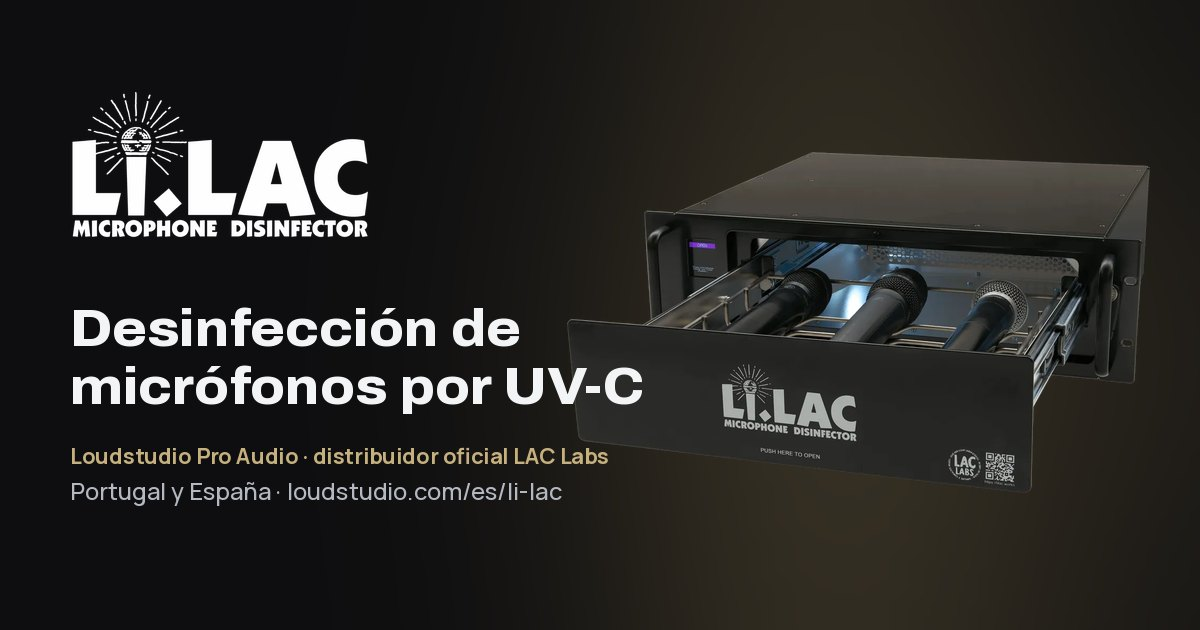
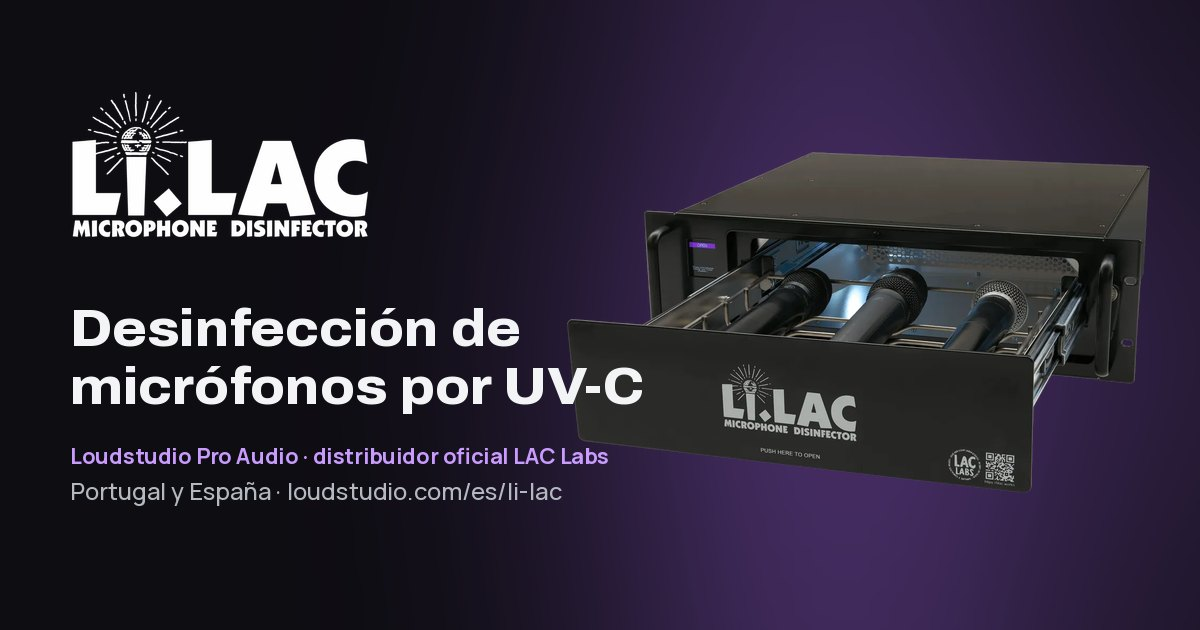
Website: Li.LAC pages keep the lilac tone
The Pro Audio pages use the lilac of the Li.LAC product again for
buttons, highlights and the product glow; the header and footer keep the
original gold Pro Audio logo. Sharing images for Li.LAC back in lilac.

Claude-Session: https://claude.ai/code/session_01BG5GuYZB1s45KCDu9raZV8

diff --git a/website/public/assets/css/style.css b/website/public/assets/css/style.css
@@ -1093,16 +1093,18 @@ a.contact-list__value:hover { color: var(--accent); }
 .lead + .btn-row, .lead + .download { margin-top: 32px; }
 .stack-lg { margin-top: clamp(56px, 8vw, 104px); }
 
-/* ---------- Pro Audio (Li.LAC, the commercial side): the gold of the original Pro Audio logo ---------- */
+/* ---------- Pro Audio (Li.LAC, the commercial side) ----------
+   The logos stay the original gold Pro Audio artwork; the page itself uses
+   the lilac of the Li.LAC product (its display and brochure). */
 
 .theme-proaudio {
-  --accent: #a8925e;             /* logo gold, a little lighter so small text stays readable */
-  --accent-rgb: 168, 146, 94;
-  --accent-hover: #c5b07e;
-  --accent-ink: #15120b;
-  --light-accent: #6f5d33;
+  --accent: #b06bff;
+  --accent-rgb: 176, 107, 255;
+  --accent-hover: #c99bff;
+  --accent-ink: #12061f;
+  --light-accent: #7330c9;
 }
-.theme-proaudio .section--light .feature__icon { background: rgba(111, 93, 51, 0.12); }
+.theme-proaudio .section--light .feature__icon { background: rgba(115, 48, 201, 0.1); }
 
 .media--product { aspect-ratio: auto; background: transparent; overflow: visible; }
 .media--product img { height: auto; object-fit: contain; }
@@ -1113,7 +1115,7 @@ a.contact-list__value:hover { color: var(--accent); }
   padding: clamp(24px, 5vw, 72px);
   background:
     radial-gradient(55% 60% at 50% 55%, rgba(var(--accent-rgb), 0.32) 0%, rgba(var(--accent-rgb), 0.08) 50%, transparent 72%),
-    linear-gradient(180deg, #16171a 0%, #0e0f11 100%);
+    linear-gradient(180deg, #15121c 0%, #0e0d12 100%);
   border: 1px solid var(--line);
   overflow: hidden;
 }

diff --git a/website/public/index.html b/website/public/index.html
@@ -24,9 +24,9 @@
 <link rel="manifest" href="/site.webmanifest">
 <link rel="preload" href="/assets/fonts/archivo-latin-var.woff2" as="font" type="font/woff2" crossorigin>
 <link rel="preload" href="/assets/fonts/manrope-latin-var.woff2" as="font" type="font/woff2" crossorigin>
-<link rel="stylesheet" href="/assets/css/style.css?v=fe771f3e17">
+<link rel="stylesheet" href="/assets/css/style.css?v=42d0f384d3">
 <script>document.documentElement.classList.add("js")</script>
-<script src="/assets/js/main.js?v=fe771f3e17" defer></script>
+<script src="/assets/js/main.js?v=42d0f384d3" defer></script>
 <script type="application/ld+json">{"@context":"https://schema.org","@type":"LocalBusiness","@id":"https://loudstudio.com/#loudstudio","name":"Loudstudio","description":"Estúdio de produção áudio em Coimbra: gravação, mistura, masterização e produção.","url":"https://loudstudio.com/","email":"info@loudstudio.com","telephone":"+351965243633","image":"https://loudstudio.com/assets/img/og/loudstudio-og.jpg","founder":{"@type":"Person","name":"Toni Lourenço"},"address":{"@type":"PostalAddress","streetAddress":"Galerias Topázio, Sala 408","addressLocality":"Coimbra","addressCountry":"PT"},"areaServed":"PT","sameAs":["https://www.facebook.com/loudstudiocoimbra/"]}</script>
 </head>
 <body class="">

diff --git a/website/public/es/li-lac/index.html b/website/public/es/li-lac/index.html
@@ -27,9 +27,9 @@
 <link rel="manifest" href="/site.webmanifest">
 <link rel="preload" href="/assets/fonts/archivo-latin-var.woff2" as="font" type="font/woff2" crossorigin>
 <link rel="preload" href="/assets/fonts/manrope-latin-var.woff2" as="font" type="font/woff2" crossorigin>
-<link rel="stylesheet" href="/assets/css/style.css?v=fe771f3e17">
+<link rel="stylesheet" href="/assets/css/style.css?v=42d0f384d3">
 <script>document.documentElement.classList.add("js")</script>
-<script src="/assets/js/main.js?v=fe771f3e17" defer></script>
+<script src="/assets/js/main.js?v=42d0f384d3" defer></script>
 <script type="application/ld+json">{"@context":"https://schema.org","@type":"Product","name":"Li.LAC","description":"Cajón de rack de 19” y 3U para desinfectar micrófonos con luz ultravioleta (UV-C).","brand":{"@type":"Brand","name":"LAC Labs"},"manufacturer":{"@type":"Organization","name":"LAC Labs GmbH","url":"https://www.lilac.works"},"image":"https://loudstudio.com/assets/img/lilac/gaveta-topo-1200.webp","url":"https://loudstudio.com/es/li-lac/"}</script>
 </head>
 <body class="theme-proaudio">

diff --git a/website/public/li-lac/index.html b/website/public/li-lac/index.html
@@ -27,9 +27,9 @@
 <link rel="manifest" href="/site.webmanifest">
 <link rel="preload" href="/assets/fonts/archivo-latin-var.woff2" as="font" type="font/woff2" crossorigin>
 <link rel="preload" href="/assets/fonts/manrope-latin-var.woff2" as="font" type="font/woff2" crossorigin>
-<link rel="stylesheet" href="/assets/css/style.css?v=fe771f3e17">
+<link rel="stylesheet" href="/assets/css/style.css?v=42d0f384d3">
 <script>document.documentElement.classList.add("js")</script>
-<script src="/assets/js/main.js?v=fe771f3e17" defer></script>
+<script src="/assets/js/main.js?v=42d0f384d3" defer></script>
 <script type="application/ld+json">{"@context":"https://schema.org","@type":"Product","name":"Li.LAC","description":"Gaveta de rack 19” 3U para desinfeção de microfones por luz ultravioleta (UV-C).","brand":{"@type":"Brand","name":"LAC Labs"},"manufacturer":{"@type":"Organization","name":"LAC Labs GmbH","url":"https://www.lilac.works"},"image":"https://loudstudio.com/assets/img/lilac/gaveta-topo-1200.webp","url":"https://loudstudio.com/li-lac/"}</script>
 </head>
 <body class="theme-proaudio">

diff --git a/website/public/404.html b/website/public/404.html
@@ -24,9 +24,9 @@
 <link rel="manifest" href="/site.webmanifest">
 <link rel="preload" href="/assets/fonts/archivo-latin-var.woff2" as="font" type="font/woff2" crossorigin>
 <link rel="preload" href="/assets/fonts/manrope-latin-var.woff2" as="font" type="font/woff2" crossorigin>
-<link rel="stylesheet" href="/assets/css/style.css?v=fe771f3e17">
+<link rel="stylesheet" href="/assets/css/style.css?v=42d0f384d3">
 <script>document.documentElement.classList.add("js")</script>
-<script src="/assets/js/main.js?v=fe771f3e17" defer></script>
+<script src="/assets/js/main.js?v=42d0f384d3" defer></script>
 </head>
 <body class="">
 <a class="skip-link" href="#conteudo">Saltar para o conteúdo</a>

diff --git a/website/public/contactos/index.html b/website/public/contactos/index.html
@@ -24,9 +24,9 @@
 <link rel="manifest" href="/site.webmanifest">
 <link rel="preload" href="/assets/fonts/archivo-latin-var.woff2" as="font" type="font/woff2" crossorigin>
 <link rel="preload" href="/assets/fonts/manrope-latin-var.woff2" as="font" type="font/woff2" crossorigin>
-<link rel="stylesheet" href="/assets/css/style.css?v=fe771f3e17">
+<link rel="stylesheet" href="/assets/css/style.css?v=42d0f384d3">
 <script>document.documentElement.classList.add("js")</script>
-<script src="/assets/js/main.js?v=fe771f3e17" defer></script>
+<script src="/assets/js/main.js?v=42d0f384d3" defer></script>
 </head>
 <body class="">
 <a class="skip-link" href="#conteudo">Saltar para o conteúdo</a>

diff --git a/website/public/estudio/index.html b/website/public/estudio/index.html
@@ -24,9 +24,9 @@
 <link rel="manifest" href="/site.webmanifest">
 <link rel="preload" href="/assets/fonts/archivo-latin-var.woff2" as="font" type="font/woff2" crossorigin>
 <link rel="preload" href="/assets/fonts/manrope-latin-var.woff2" as="font" type="font/woff2" crossorigin>
-<link rel="stylesheet" href="/assets/css/style.css?v=fe771f3e17">
+<link rel="stylesheet" href="/assets/css/style.css?v=42d0f384d3">
 <script>document.documentElement.classList.add("js")</script>
-<script src="/assets/js/main.js?v=fe771f3e17" defer></script>
+<script src="/assets/js/main.js?v=42d0f384d3" defer></script>
 </head>
 <body class="">
 <a class="skip-link" href="#conteudo">Saltar para o conteúdo</a>

diff --git a/website/public/privacidade/index.html b/website/public/privacidade/index.html
@@ -24,9 +24,9 @@
 <link rel="manifest" href="/site.webmanifest">
 <link rel="preload" href="/assets/fonts/archivo-latin-var.woff2" as="font" type="font/woff2" crossorigin>
 <link rel="preload" href="/assets/fonts/manrope-latin-var.woff2" as="font" type="font/woff2" crossorigin>
-<link rel="stylesheet" href="/assets/css/style.css?v=fe771f3e17">
+<link rel="stylesheet" href="/assets/css/style.css?v=42d0f384d3">
 <script>document.documentElement.classList.add("js")</script>
-<script src="/assets/js/main.js?v=fe771f3e17" defer></script>
+<script src="/assets/js/main.js?v=42d0f384d3" defer></script>
 </head>
 <body class="">
 <a class="skip-link" href="#conteudo">Saltar para o conteúdo</a>

diff --git a/website/tools/make_og.py b/website/tools/make_og.py
@@ -62,8 +62,8 @@ LILAC_TEXT = {
 
 def lilac(lang="pt"):
     line1, line2, line3, line4 = LILAC_TEXT[lang]
-    canvas = Image.new("RGBA", (W, H), (14, 14, 16, 255))
-    canvas.alpha_composite(glow((168, 146, 94), (840, 330), 360, 90))
+    canvas = Image.new("RGBA", (W, H), (14, 13, 18, 255))
+    canvas.alpha_composite(glow((176, 107, 255), (840, 330), 360, 120))
     product = fit(Image.open(IMG / "lilac" / "gaveta-perfil-1200.webp").convert("RGBA"), 640, 470)
     canvas.alpha_composite(product, (W - product.width - 30, (H - product.height) // 2 + 20))
     logo = fit(Image.open(IMG / "brand" / "lilac-logo-white-768.png").convert("RGBA"), 300, 150)
@@ -73,7 +73,7 @@ def lilac(lang="pt"):
     big = font("archivo-latin-var.woff2", 52, 800, 108)
     draw.text((70, 300), line1, font=big, fill=(243, 244, 246))
     draw.text((70, 358), line2, font=big, fill=(243, 244, 246))
-    draw.text((70, 440), line3, font=font("manrope-latin-var.woff2", 22, 700), fill=(197, 176, 126))
+    draw.text((70, 440), line3, font=font("manrope-latin-var.woff2", 22, 700), fill=(201, 155, 255))
     draw.text((70, 474), line4, font=font("manrope-latin-var.woff2", 24, 500), fill=(180, 185, 193))
     return canvas
 

diff --git a/website/README.md b/website/README.md
@@ -132,11 +132,11 @@ exemplo num ramo próprio gerado por um workflow). Fica para uma fase seguinte.
 - **Mapa**: só carrega o Google Maps quando o visitante carrega em "Mostrar mapa".
 - **Dois lados separados**: o estúdio (Início, Estúdio, Contactos) em azul, com o
   logótipo azul; o Pro Audio, a área comercial (Li.LAC, em português e espanhol),
-  em dourado, com o logótipo dourado "pro audio" e formulário próprio.
+  com o logótipo dourado "pro audio", o tom lilás do Li.LAC e formulário próprio.
 - **Logótipos**: usam-se sempre os ficheiros originais (em PNG, sem perda de
   qualidade), nunca redesenhados, recoloridos ou escritos com outra letra.
-- **Cores**: azul do logótipo `#00AEEF` no estúdio; no Pro Audio, `#A8925E`, o
-  dourado do logótipo um pouco mais claro para os textos pequenos se lerem bem.
+- **Cores**: azul do logótipo `#00AEEF` no estúdio; nas páginas Li.LAC (Pro Audio),
+  o lilás do Li.LAC `#B06BFF`. Os logótipos mantêm sempre as cores originais.
 
 ## Por confirmar
 
